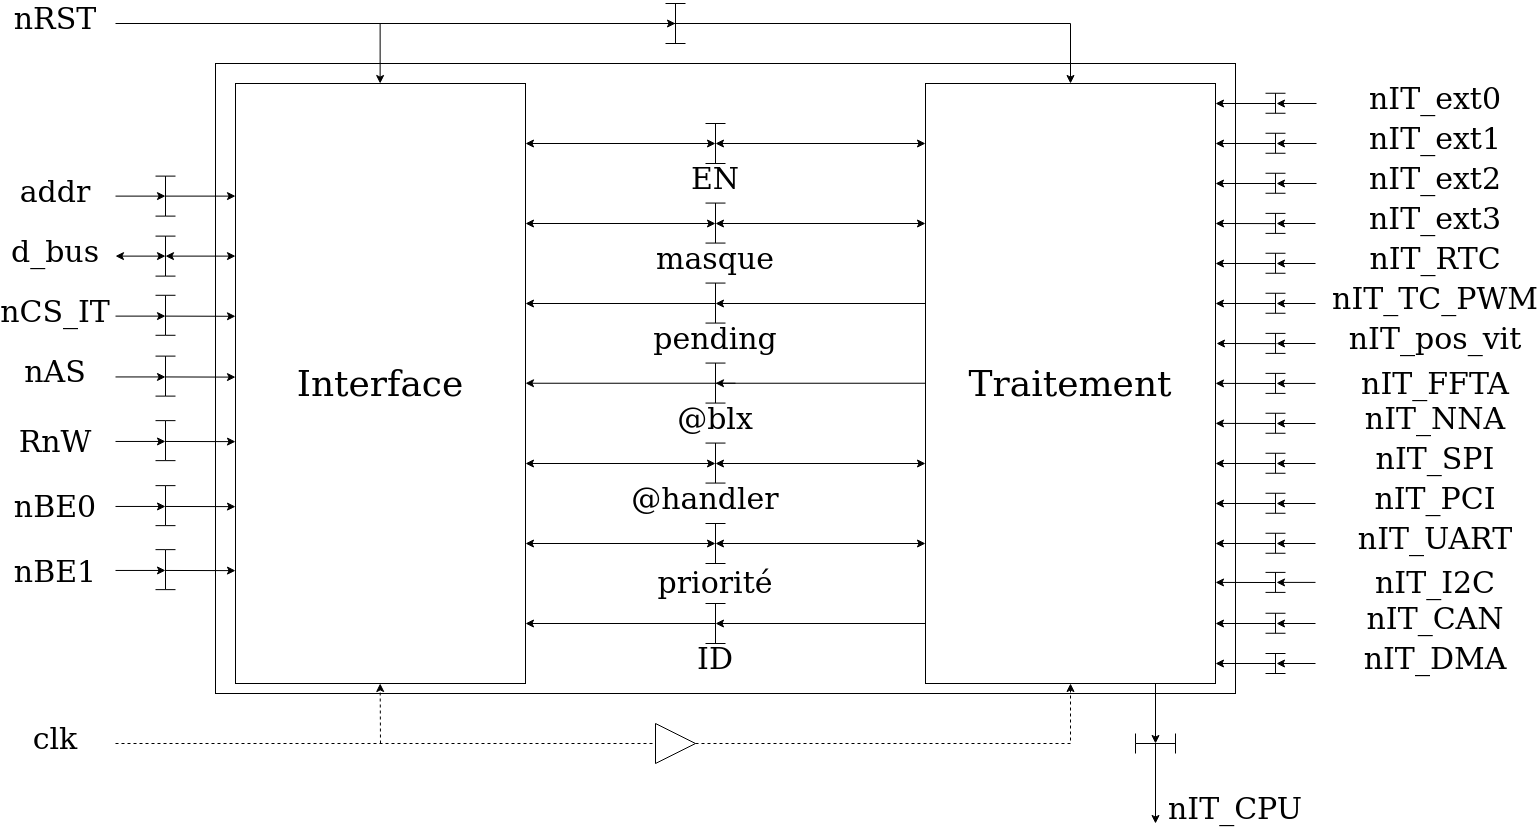
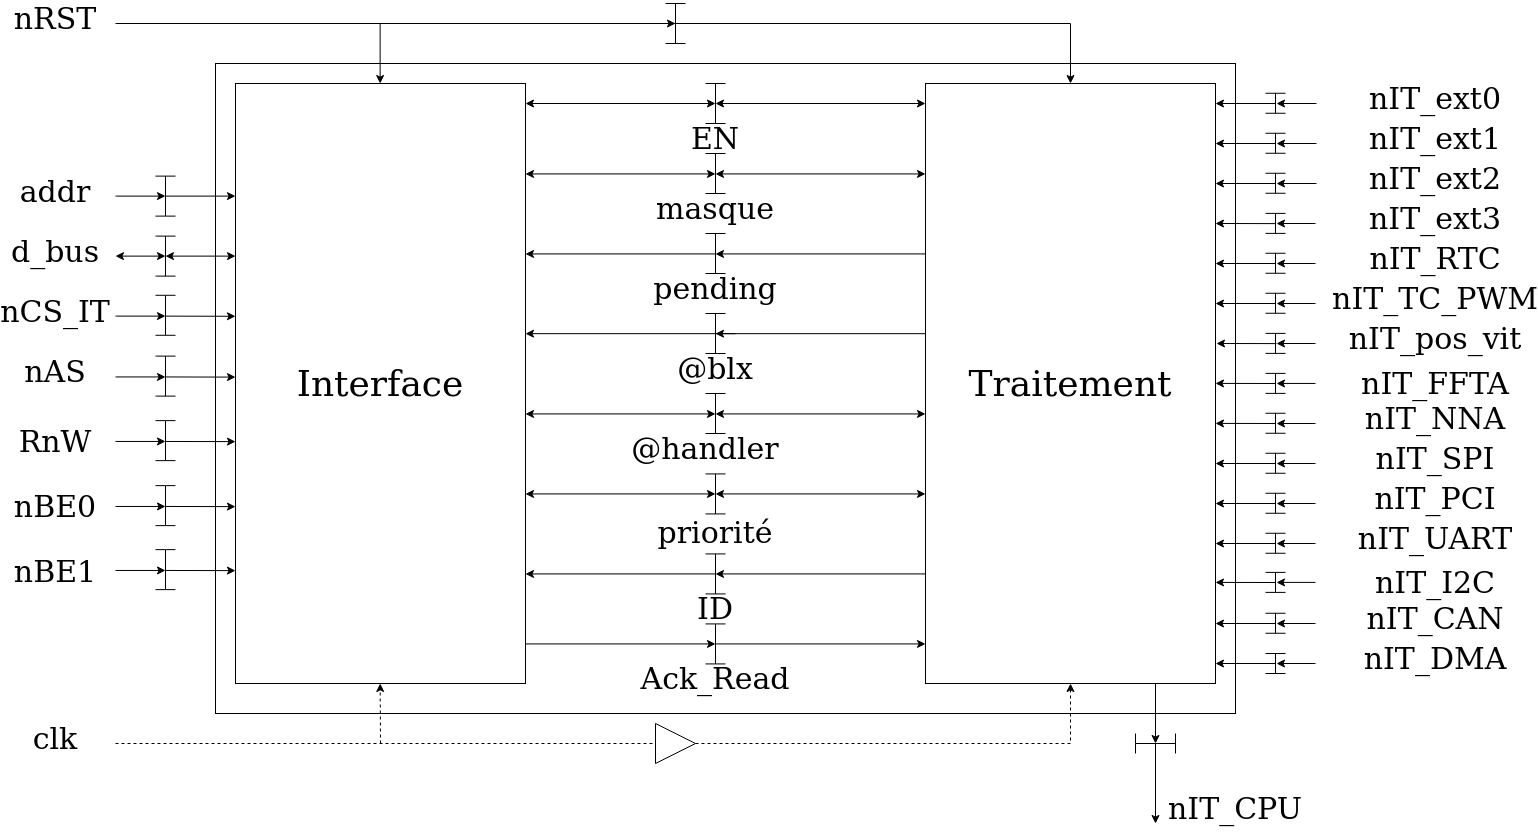
Rédaction

diff --git a/report/texContent/conception.tex b/report/texContent/conception.tex
@@ -11,7 +11,8 @@ La section suivante est un rappel de la délimitation du circuit à concevoir. C
 	\label{fig:delimitation_fonctionnelle}
 \end{figure}
 
-Il s'agira par la suite de se placer dans un point de vue interne afin de présenter les différents blocs composant le contrôleur d'interruptions avec ses relations internes. 
+Il s'agira par la suite de se placer dans un point de vue interne afin de présenter les différents blocs composant le contrôleur d'interruptions avec ses relations internes.
+L'évènement \texttt{Ack\_Read} permet d'acquitter la lecture de l'adresse de branchement par le processeur. Cette relation peut être déduite selon le contenu du bus d'adresse (si la lecture est faite dans le registre \texttt{blx} alors il y a acquittement).  
 
 \subsection{Décomposition fonctionnelle et introduction des interfaces}
 
@@ -24,24 +25,35 @@ La figure ci-dessous présente le circuit interne observé de l'intérieur avec 
 	\label{fig:decomposition_fonctionnelle}
 \end{figure}
 
-Le bloc \texttt{Traitement} est chargé de signaler le CPU d'une interruption à traiter à la suite de multiples opérations (traitement des priorités, opération de masquage, mise en suspens). Le bloc \texttt{Interface} permet de faire la jonction entre les signaux de contrôle et bus du système à microprocesseur et l'IP à concevoir. 
-
-\newpage
+Le bloc \texttt{Traitement} est chargé de signaler le CPU d'une interruption à traiter à la suite de multiples opérations (traitement des priorités, opération de masquage, mise en suspens).
+Le bloc \texttt{Interface} permet de faire la jonction entre les signaux de contrôle et bus du système à microprocesseur et l'IP à concevoir.
+\texttt{Ack\_Read} est en sortie du bloc \texttt{Interface} et avertit le bloc \texttt{Traitement} de la lecture de l'adresse de branchement.
+Il ne s'agit plus d'un événement mais d'une relation.
+C'est une variable partagée qui engendrera une action sur niveau et non sur front.
 
 \subsection{Raffinage du bloc \texttt{Interface}}
 
-La section suivante présente un raffinage, c'est-à-dire de réaliser une seconde décomposition en se plaçant à l'intérieur du bloc \texttt{Interface}. Ce bloc est composé de \texttt{Interface\_Write} et \texttt{Interface\_Read}. 
+La section suivante présente un raffinage, c'est-à-dire de réaliser une seconde décomposition en se plaçant à l'intérieur du bloc \texttt{Interface}.
+Ce bloc est composé de \texttt{Interface\_Write} et \texttt{Interface\_Read}. 
 
 \begin{figure}[H]
 	\centering
-	\includegraphics[width=0.9\linewidth]{figure/raffinage_interface.png}
+	\includegraphics[width=1\linewidth]{figure/raffinage_interface.png}
 	\caption{Raffinage et décomposition du bloc \texttt{Interface}}
 	\label{fig:raffinage_interface}
 \end{figure}
 
-Cette décomposition en bloc hiérarchique permet de mettre en lumière deux fonctions du bloc \texttt{Interface}. Celui-ci peut écrire dans les registres du contrôleur d'interruptions par le biais du bloc \texttt{Interface\_Write} et les lire avec \texttt{Interface\_Read}.
+Cette décomposition en bloc hiérarchique permet de mettre en lumière deux fonctions du bloc \texttt{Interface}.
+Celui-ci peut écrire dans les registres du contrôleur d'interruptions par le biais du bloc \texttt{Interface\_Write} et les lire avec \texttt{Interface\_Read}.
 
 \subsection{Raffinage du bloc \texttt{Traitement}}
+
+\begin{figure}[H]
+	\centering
+	\includegraphics[width=1\linewidth]{figure/raffinage_traitement.png}
+	\caption{Raffinage et décomposition du bloc \texttt{Traitement}}
+	\label{fig:raffinage_traitement}
+\end{figure}
 
 \newpage
 
@@ -52,20 +64,20 @@ Cette décomposition en bloc hiérarchique permet de mettre en lumière deux fon
 \begin{lstlisting}[style=pascalstyle]
 action Interface_Write sur clk avec
 (
-entree var d_bus 		: Def_data;
-entree var addr 		: Def_addr;
-entree var nRST 		: Def_Bit
-entree var nCS_IT 		: Def_Bit;
-entree var nAS 			: Def_Bit;
-entree var RnW 			: Def_Bit;
-sortie var EN 			: Def_Bit;
+entree var d_bus 			: Def_data;
+entree var addr 			: Def_addr;
+entree var nRST 			: Def_Bit
+entree var nCS_IT 			: Def_Bit;
+entree var nAS 				: Def_Bit;
+entree var RnW 				: Def_Bit;
+sortie var EN 				: Def_Bit;
 sortie var vect_priorite 	: Def_vect_priorite;
 sortie var vect_handler 	: Def_vect_handler;
-sortie var masque 		: Def_masque
+sortie var masque 			: Def_masque
 );
 
-const addr_EN 			: Def_addr = 0x000000;
-const addr_masque 		: Def_addr = 0x000002;
+const addr_EN 				: Def_addr = 0x000000;
+const addr_masque 			: Def_addr = 0x000002;
 const addr_vect_handler 	: Def_addr = 0x00000A;
 const addr_vect_priorite 	: Def_addr = 0x000044;
 
@@ -103,27 +115,27 @@ end Interface_Write;
 \begin{lstlisting}[style=pascalstyle]
 action Interface_Read sur clk avec
 (
-entree var addr 		: Def_addr;
-entree var nCS_IT 		: Def_Bit;
-entree var nAS 			: Def_Bit;
-entree var RnW 			: Def_Bit;
-entree var nRST 		: Def_Bit;
-entree var EN 			: Def_Bit;
+entree var addr 			: Def_addr;
+entree var nCS_IT 			: Def_Bit;
+entree var nAS 				: Def_Bit;
+entree var RnW 				: Def_Bit;
+entree var nRST 			: Def_Bit;
+entree var EN 				: Def_Bit;
 entree var vect_priorite 	: Def_vect_priorite;
 entree var vect_handler 	: Def_vect_handler;
-entree var masque 		: Def_masque;
-entree var pending 		: Def_pending
-entree var blx 			: Def_blx;
-sortie var d_bus 		: Def_data
+entree var masque 			: Def_masque;
+entree var pending 			: Def_pending
+entree var blx 				: Def_blx;
+sortie var d_bus 			: Def_data
 );
 
-var TriState : HauteImpedance;
-const addr_EN	     : Def_addr = 0x000000;
-const addr_masque   : Def_addr = 0x000002;
-const addr_pending : Def_addr = 0x000004;
-const addr_blx : Def_addr = 0x000006;
-const addr_vect_handler : Def_addr = 0x00000A;
-const addr_vect_priorite : Def_addr = 0x000044;
+var TriState 				: HauteImpedance;
+const addr_EN	     		: Def_addr = 0x000000;
+const addr_masque   		: Def_addr = 0x000002;
+const addr_pending 			: Def_addr = 0x000004;
+const addr_blx 				: Def_addr = 0x000006;
+const addr_vect_handler 	: Def_addr = 0x00000A;
+const addr_vect_priorite 	: Def_addr = 0x000044;
 
 begin
 

diff --git a/report/conf.tex b/report/conf.tex
@@ -67,10 +67,26 @@
 
 \lstdefinestyle{pascalstyle}{
 	language=Pascal,
-	commentstyle=\color{black},
-	sensitive=false,
+	%commentstyle=\color{black},
+	%sensitive=false,
 	%morecomment=[l][\color{red}]{//},
-	morecomment=[l]{//},
+	%morecomment=[l]{//},
+	tabsize=4,
+	captionpos=b,
+	numbers=left,
+	commentstyle=\color{mGreen},
+	backgroundcolor=\color{white},
+	numberstyle=\color{gray},
+	keywordstyle=\color{blue} \textbf,%otherkeywords={xdata},
+	keywords=[2]{xdata},
+	keywordstyle=[2]\color{red}\textbf,
+	identifierstyle=\color{black},
+	stringstyle=\color{red}\ttfamily,
+	basicstyle = \ttfamily \color{black} \footnotesize,
+	inputencoding=utf8/latin1,
+	showstringspaces=false,
+	frame=single,
+	morekeywords={action}
 }
 
 
